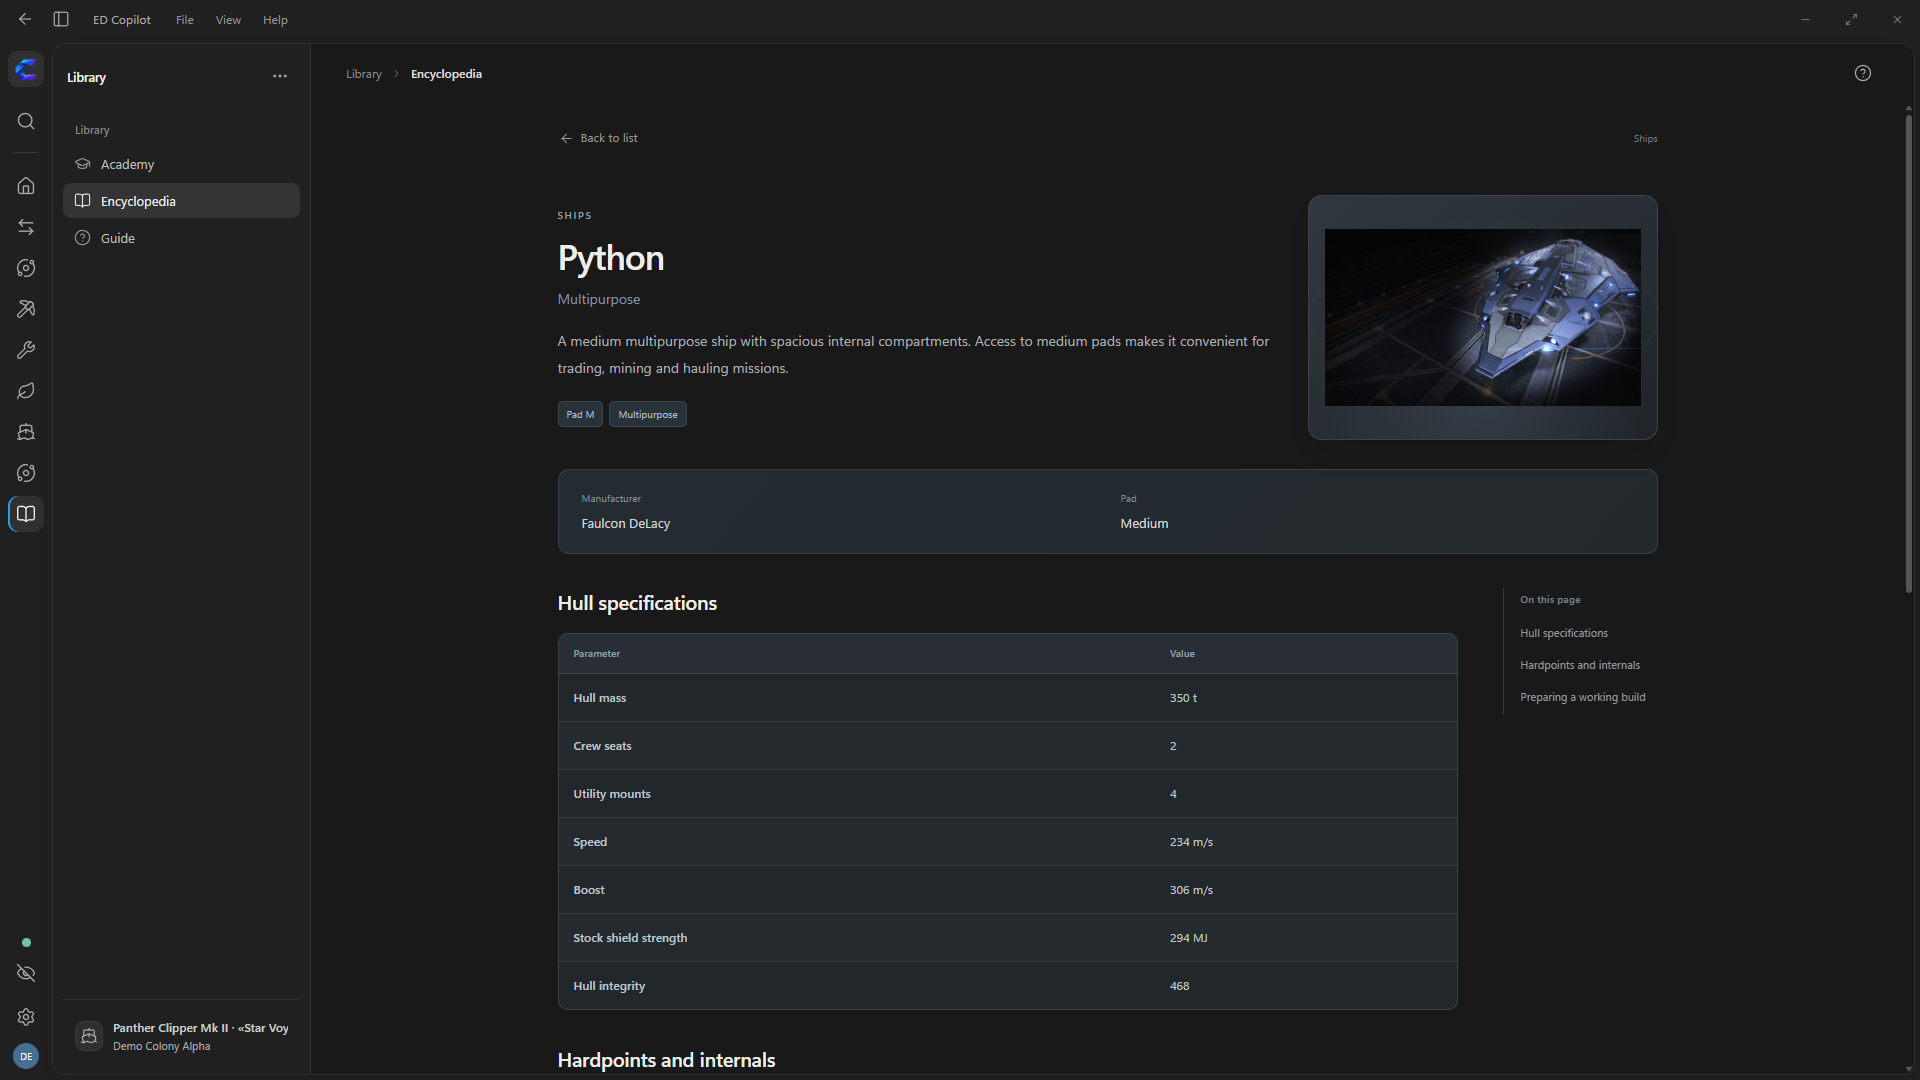
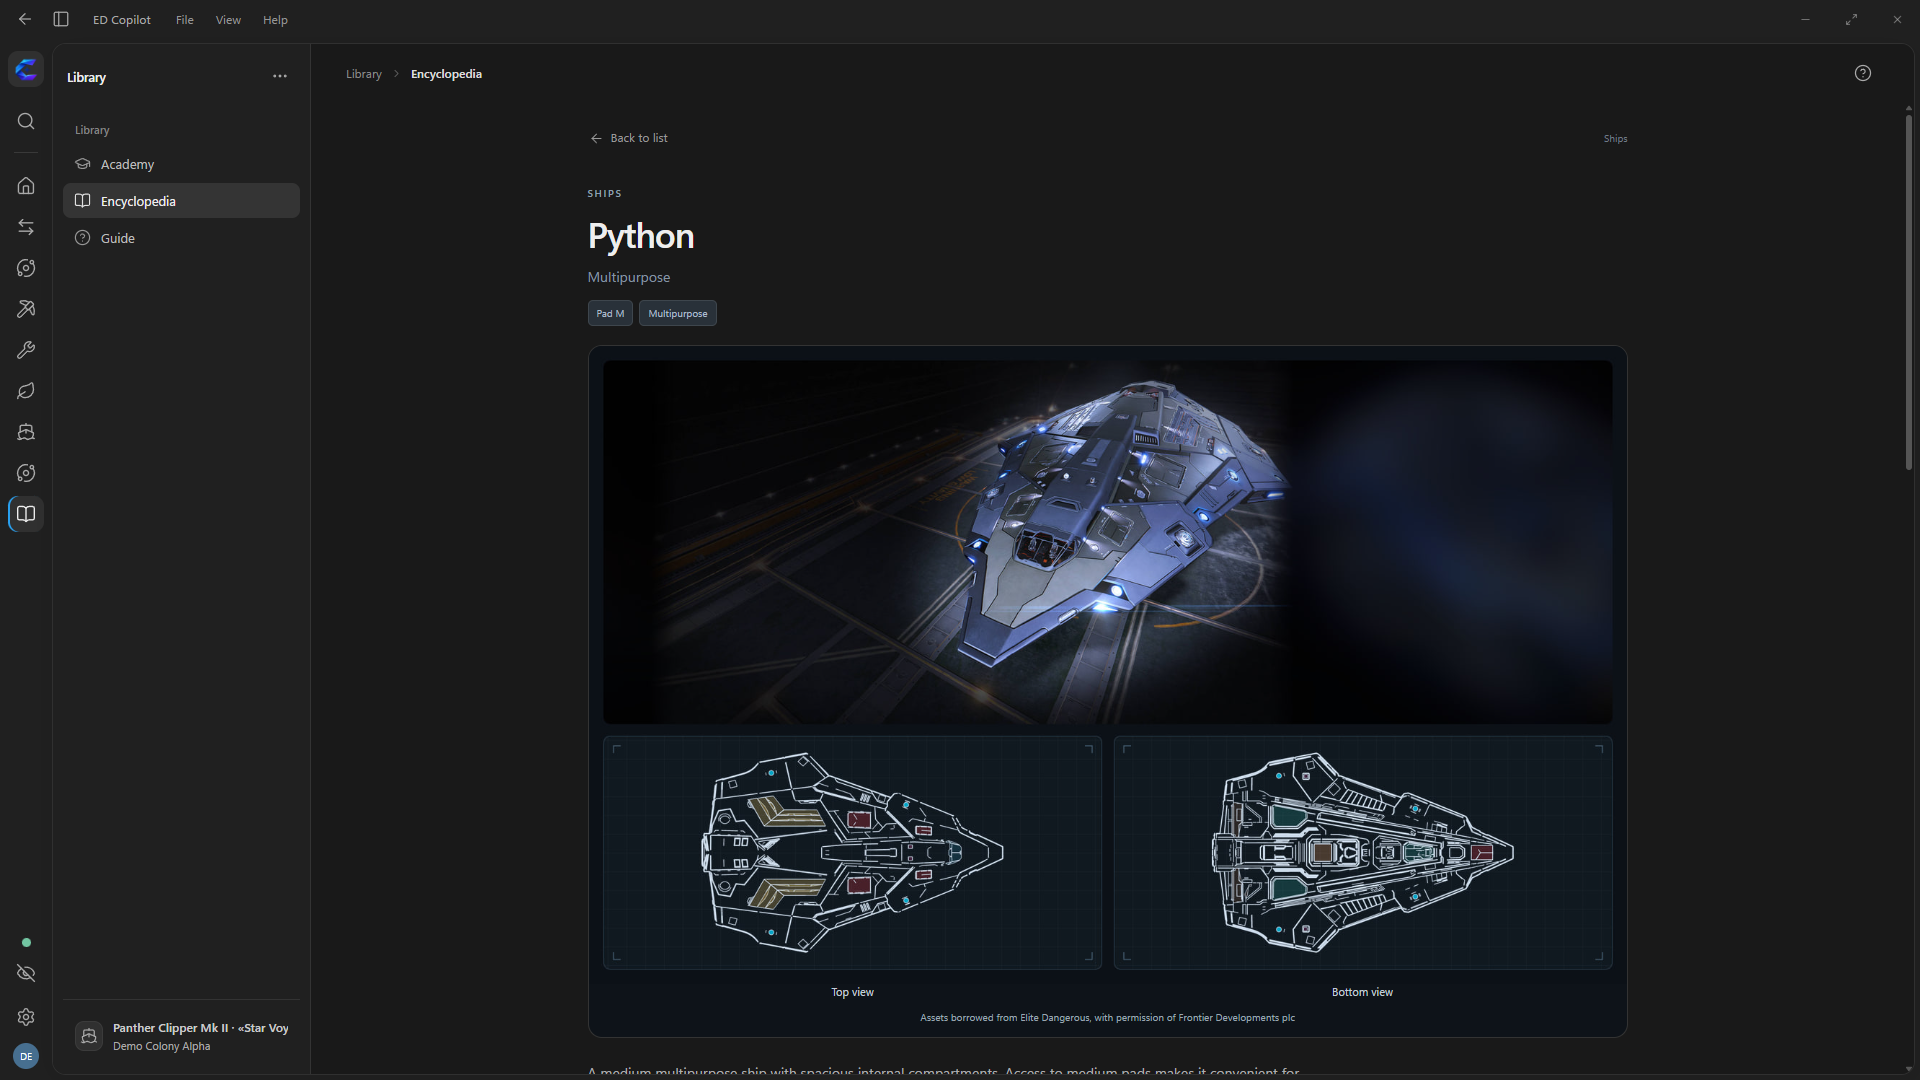
Release ED Copilot 2.8.10 [release]

diff --git a/internal/frontend/reference.js b/internal/frontend/reference.js
@@ -81,6 +81,13 @@ const th=(value,vars)=>t(value,vars).replace(/[&<>"']/g,c=>({'&':'&amp;','<':'&l
     const src = imageSource(entry.image), fit = entry.category === 'ships' ? 'contain' : entry.image?.fit === 'cover' || entry.category === 'engineers' ? 'cover' : 'contain';
     return `<div class="ref-art ${hero ? 'ref-art-hero' : ''} ref-art-${ui.esc(entry.category || 'entity')} ${src ? 'has-image' : 'no-image'}"><span class="ref-image-placeholder" ${src ? 'hidden' : ''}>${ui.icon(categoryIcon(entry.category))}</span>${src ? `<img data-reference-image src="${ui.esc(src)}" alt="${text(ui, entry.image?.alt || entry.title)}" class="ref-image-${fit}" loading="${hero ? 'eager' : 'lazy'}" decoding="async">` : ''}</div>`;
   }
+  function shipAtlas(entry, ui) {
+    if (entry.category !== 'ships' || entry.image?.layout !== 'ship-atlas') return '';
+    const src = imageSource(entry.image);
+    if (!src) return '';
+    const alt = `${text(ui, entry.image.alt || entry.title)} · ${th("Цветной вид, проекции сверху и снизу")}`;
+    return `<figure class="ref-ship-atlas"><img data-reference-image src="${ui.esc(src)}" alt="${alt}" decoding="async"><figcaption><div class="ref-ship-projections"><span>${th("Вид сверху")}</span><span>${th("Вид снизу")}</span></div><small>${th("Изображения из Elite Dangerous используются с разрешения Frontier Developments plc.")}</small></figcaption></figure>`;
+  }
   function internalLink(item, ui, className = '') {
     const id = item.entryId || item.id, label = item.title || item.name || item.label || t("Открыть");
     return validID(id) ? `<button type="button" class="ref-inline-link ${className}" data-click="reference-open" data-id="${ui.esc(id)}">${text(ui, label)}${ui.icon('arrow-up-right')}</button>` : text(ui, label);
@@ -213,11 +220,14 @@ const th=(value,vars)=>t(value,vars).replace(/[&<>"']/g,c=>({'&':'&amp;','<':'&l
     const showReferenceContent = !galaxy || galaxy.isOverview(r);
     const sections = (entry.sections || []).filter(section => sectionIsVisible(section) && (!galaxy || section.id !== 'next'));
     const description = (!galaxy || showReferenceContent && sections.length) && (entry.description || entry.summary);
-    const hero = `<header class="ref-entry-hero ${article ? 'ref-article-hero' : ''} ${imageSource(entry.image) ? 'with-image' : ''}"><div class="ref-hero-copy"><div class="eyebrow">${text(ui, entry.groupTitle || categoryTitle(r, entry.category))}</div><h1>${text(ui, entry.title)}</h1>${entry.subtitle ? `<div class="ref-entry-subtitle">${text(ui, entry.subtitle)}</div>` : ''}${description ? `<p class="ref-entry-lead">${text(ui, description)}</p>` : ''}${entry.badges?.length ? `<div class="ref-entry-badges">${entry.badges.map(item => `<span class="ref-tag">${text(ui, typeof item === 'string' ? item : item.label)}</span>`).join('')}</div>` : ''}</div>${imageSource(entry.image) ? imageHTML(entry, ui, true) : ''}</header>`;
+    const atlas = shipAtlas(entry, ui);
+    const inlineImage = !atlas && imageSource(entry.image);
+    const lead = description ? `<p class="ref-entry-lead">${text(ui, description)}</p>` : '';
+    const hero = `<header class="ref-entry-hero ${article ? 'ref-article-hero' : ''} ${inlineImage ? 'with-image' : ''}"><div class="ref-hero-copy"><div class="eyebrow">${text(ui, entry.groupTitle || categoryTitle(r, entry.category))}</div><h1>${text(ui, entry.title)}</h1>${entry.subtitle ? `<div class="ref-entry-subtitle">${text(ui, entry.subtitle)}</div>` : ''}${atlas ? '' : lead}${entry.badges?.length ? `<div class="ref-entry-badges">${entry.badges.map(item => `<span class="ref-tag">${text(ui, typeof item === 'string' ? item : item.label)}</span>`).join('')}</div>` : ''}</div>${inlineImage ? imageHTML(entry, ui, true) : ''}</header>`;
     const related = (entry.related || []).filter(item => validID(item.id || item.entryId));
     const properties = galaxy ? (entry.properties || []).filter(item => item.value !== entry.title) : entry.properties;
     const referenceContent = showReferenceContent ? `${properties?.length ? facts(properties, ui, 'ref-hero-properties') : ''}${personalBanner(r, entry, ui)}${engineerRoadmap(entry, ui)}<div class="ref-reader-layout"><article class="ref-entry-content">${sections.map((section, index) => renderSection(section, index, ui, r)).join('')}${trading(r, entry, ui)}${related.length ? `<section class="ref-entry-section"><h2>${th("Связанные записи")}</h2><div class="ref-related-grid">${related.map(item => `<button type="button" data-click="reference-open" data-id="${ui.esc(item.id || item.entryId)}" class="ref-related">${ui.icon(categoryIcon(item.category))}<span><strong>${text(ui, item.title)}</strong>${item.subtitle ? `<small>${text(ui, item.subtitle)}</small>` : ''}</span>${ui.icon('arrow-up-right')}</button>`).join('')}</div></section>` : ''}</article>${sections.filter(section => section.title).length > 2 ? `<aside class="ref-entry-toc" aria-label="${th("На этой странице")}"><strong>${th("На этой странице")}</strong>${sections.map((section, index) => section.title ? `<button type="button" data-click="reference-section" data-id="${index}">${text(ui, section.title)}</button>` : '').join('')}</aside>` : ''}</div>` : '';
-    return `<section class="reference-root ref-reader ${article ? 'ref-article-reader' : ''}" data-reference="entry" data-entry-id="${ui.esc(entry.id)}">${back}${hero}${galaxy ? galaxy.renderReader(r, ui) : ''}${referenceContent}</section>`;
+    return `<section class="reference-root ref-reader ${article ? 'ref-article-reader' : ''} ${atlas ? 'ref-ship-reader' : ''}" data-reference="entry" data-entry-id="${ui.esc(entry.id)}">${back}${hero}${atlas ? atlas + lead : ''}${galaxy ? galaxy.renderReader(r, ui) : ''}${referenceContent}</section>`;
   }
 
   function render(C, ui) { const r = state(C); return r.entryId ? entity(r, ui) : catalogue(r, ui, C); }

diff --git a/internal/frontend/reference.css b/internal/frontend/reference.css
@@ -40,3 +40,15 @@
 .ref-section-figure{margin:0 0 18px;border:1px solid var(--ref-line);border-radius:10px;overflow:hidden;background:var(--panel)}
 .ref-section-figure img{display:block;width:100%;height:auto}
 .ref-section-figure figcaption{padding:10px 14px;color:var(--muted);font-size:12px;line-height:1.6}
+
+.ref-ship-reader{max-width:1040px}
+.ref-ship-reader .ref-entry-hero{padding:9px 0 19px}
+.ref-ship-reader .ref-entry-subtitle{margin-bottom:10px}
+.ref-ship-reader .ref-entry-badges{margin-top:12px}
+.ref-ship-reader>.ref-entry-lead{margin:0 0 22px}
+.ref-ship-atlas{margin:0 0 22px;border:1px solid var(--ref-line);border-radius:14px;overflow:hidden;background:#0e1319}
+.ref-ship-atlas img{display:block;width:100%;height:auto;aspect-ratio:auto 1440/884}
+.ref-ship-atlas img[hidden]{display:none}
+.ref-ship-atlas figcaption{padding:0 14px 12px;text-align:center}
+.ref-ship-projections{display:grid;grid-template-columns:repeat(2,minmax(0,1fr));gap:10px;color:#c2ced7;font-size:11px;line-height:1.5}
+.ref-ship-atlas figcaption small{display:block;margin-top:10px;color:#9ba6b1;font-size:10px;line-height:1.5}

diff --git a/internal/reference/catalog_test.go b/internal/reference/catalog_test.go
@@ -27,6 +27,7 @@ func TestCatalogCoverage(t *testing.T) {
 			t.Errorf("empty category %s", category.ID)
 		}
 	}
+	atlases := make(map[string]string)
 	for _, raw := range objectRows("encyclopedia-ships.json") {
 		id := "ship/" + v.Str(raw["key"])
 		t.Run(id, func(t *testing.T) {
@@ -34,7 +35,14 @@ func TestCatalogCoverage(t *testing.T) {
 			if !ok || len(e.Sections) < 2 || e.Description == "" || e.Image == nil {
 				t.Fatalf("incomplete ship %s: found=%v", id, ok)
 			}
-			checkJPEG(t, e.Image, 640, 420, 150000)
+			if e.Image.Layout != "ship-atlas" {
+				t.Fatal("missing full-width ship atlas")
+			}
+			checkJPEG(t, e.Image, 1600, 1000, 200000)
+			if previous := atlases[e.Image.Src]; previous != "" {
+				t.Errorf("ship atlas reused from %s", previous)
+			}
+			atlases[e.Image.Src] = id
 		})
 	}
 	for _, raw := range v.Rows(data.Object("engineering-data.json")["engineers"]) {

diff --git a/internal/reference/catalog.go b/internal/reference/catalog.go
@@ -100,7 +100,15 @@ func (s *Store) Entry(id string) (Entry, bool) {
 		return Entry{}, false
 	}
 	out := cloneEntry(r.entry)
-	out.Image = s.image(r.imageKey, false, out.Title)
+	if out.Category == "ships" {
+		out.Image = s.image("ship-atlas-"+strings.TrimPrefix(r.imageKey, "ship-"), false, out.Title)
+		if out.Image != nil {
+			out.Image.Layout = "ship-atlas"
+		}
+	}
+	if out.Image == nil {
+		out.Image = s.image(r.imageKey, false, out.Title)
+	}
 	for i := range out.Sections {
 		section := &out.Sections[i]
 		if image := s.image(section.figureKey, false, section.Title); image != nil {

diff --git a/internal/reference/types.go b/internal/reference/types.go
@@ -24,9 +24,10 @@ type Group struct {
 }
 
 type Image struct {
-	Src string `json:"src"`
-	Alt string `json:"alt"`
-	Fit string `json:"fit,omitempty"`
+	Src    string `json:"src"`
+	Alt    string `json:"alt"`
+	Fit    string `json:"fit,omitempty"`
+	Layout string `json:"layout,omitempty"`
 }
 
 type Property struct {

diff --git a/internal/app/engine.go b/internal/app/engine.go
@@ -40,7 +40,7 @@ import (
 
 type M = v.M
 
-const Version = "2.8.9"
+const Version = "2.8.10"
 
 type Options struct {
 	DataDir, JournalDir           string

diff --git a/README.ru.md b/README.ru.md
@@ -96,6 +96,8 @@
 
 Выбирайте категорию, ищите по названию и фильтруйте по группе. Корабли и инженеры представлены карточками с изображениями; каждая запись открывается на отдельной странице с характеристиками, условиями и связанными материалами.
 
+На страницах всех 49 кораблей есть цветное изображение и схемы вида сверху и снизу. [Авторы корабельной графики](docs/SHIP-ARTWORK.md)
+
 Найдите статью **«Соло-охота на таргоидов»**. В ней есть схема открытого сердца, копируемые системы для охоты, готовые сборки, условия открытия оружия Стражей и рецепты синтеза боеприпасов.
 
 ![Каталог кораблей](docs/screenshots/ships.png)

diff --git a/docs/SHIP-ARTWORK.md b/docs/SHIP-ARTWORK.md
@@ -1,0 +1,5 @@
+# Ship artwork
+
+Assets borrowed from Elite Dangerous, with permission of Frontier Developments plc. ED Copilot is an independent, non-commercial fan project. Frontier Developments plc does not endorse it and had no involvement in its creation.
+
+The ship plates pair Elite Dangerous imagery with recolored dorsal and ventral views maintained by the Elite Dangerous Almanac contributors. The underlying ship imagery and designs belong to Frontier Developments plc. [Almanac Core ship assets](https://github.com/Elite-Dangerous-Almanac/Almanac-Core/tree/42e874ed8f8b2ad89f99b9a21cc575851415f646/assets/ships) · [Almanac Core attribution](https://github.com/Elite-Dangerous-Almanac/Almanac-Core/blob/42e874ed8f8b2ad89f99b9a21cc575851415f646/ATTRIBUTIONS.md#elite-dangerous-game-data-and-imagery-frontier-media-usage-notice) · [Frontier media usage rules](https://forums.frontier.co.uk/threads/elite-dangerous-media-usage-rules.510879/post-7773248)

diff --git a/README.md b/README.md
@@ -96,6 +96,8 @@ After a confirmed arrival, the next system can be copied to the clipboard automa
 
 Browse by category, search by name and narrow results by group. Ships and engineers have illustrated catalogue cards; each entry opens a full page with properties, requirements and related entries.
 
+All 49 ship pages have a color render and top and bottom schematics. [Ship artwork credits](docs/SHIP-ARTWORK.md)
+
 Search for **Solo Thargoid hunting** for an illustrated AX guide with heart targeting, copyable hunting systems, ship fits, Guardian unlocks and ammunition synthesis.
 
 ![Ship catalogue](docs/screenshots/en/ships.png)

diff --git a/docs/RELEASE-2.8.10.md b/docs/RELEASE-2.8.10.md
@@ -1,0 +1,4 @@
+# ED Copilot 2.8.10
+
+- Added full-width artwork to all 49 ship pages in the Encyclopedia. Each plate pairs a color render with labelled top and bottom schematics.
+- Ship plates open offline. The catalogue continues to load small thumbnails.
